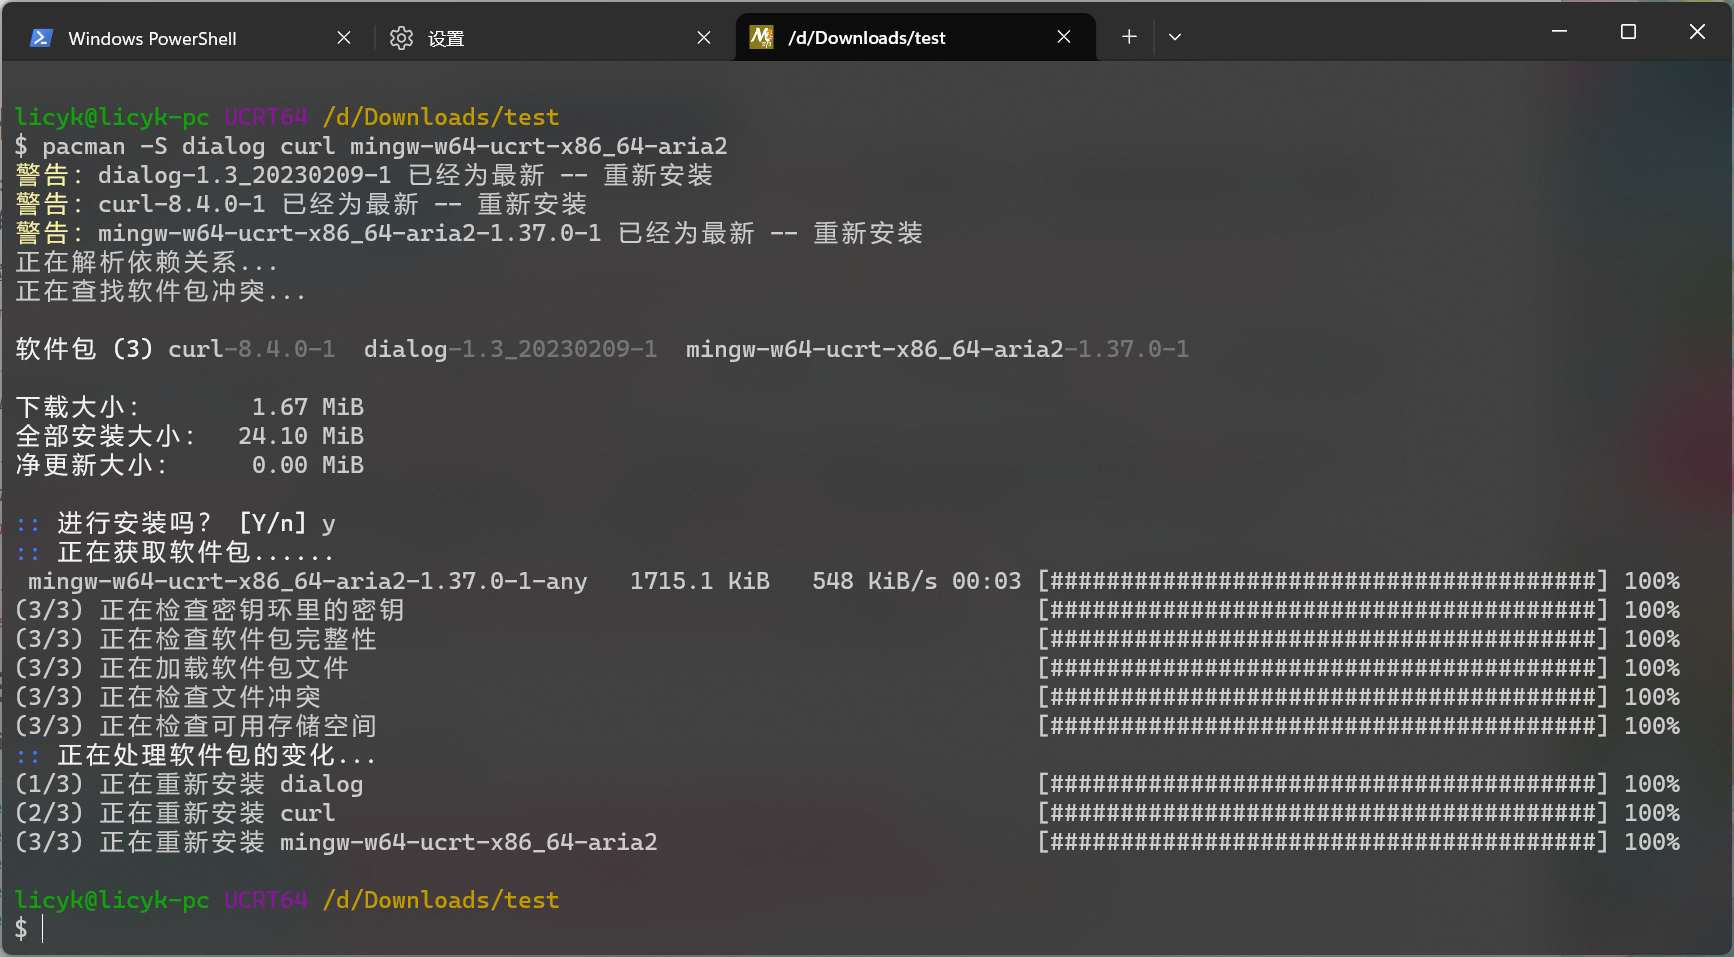
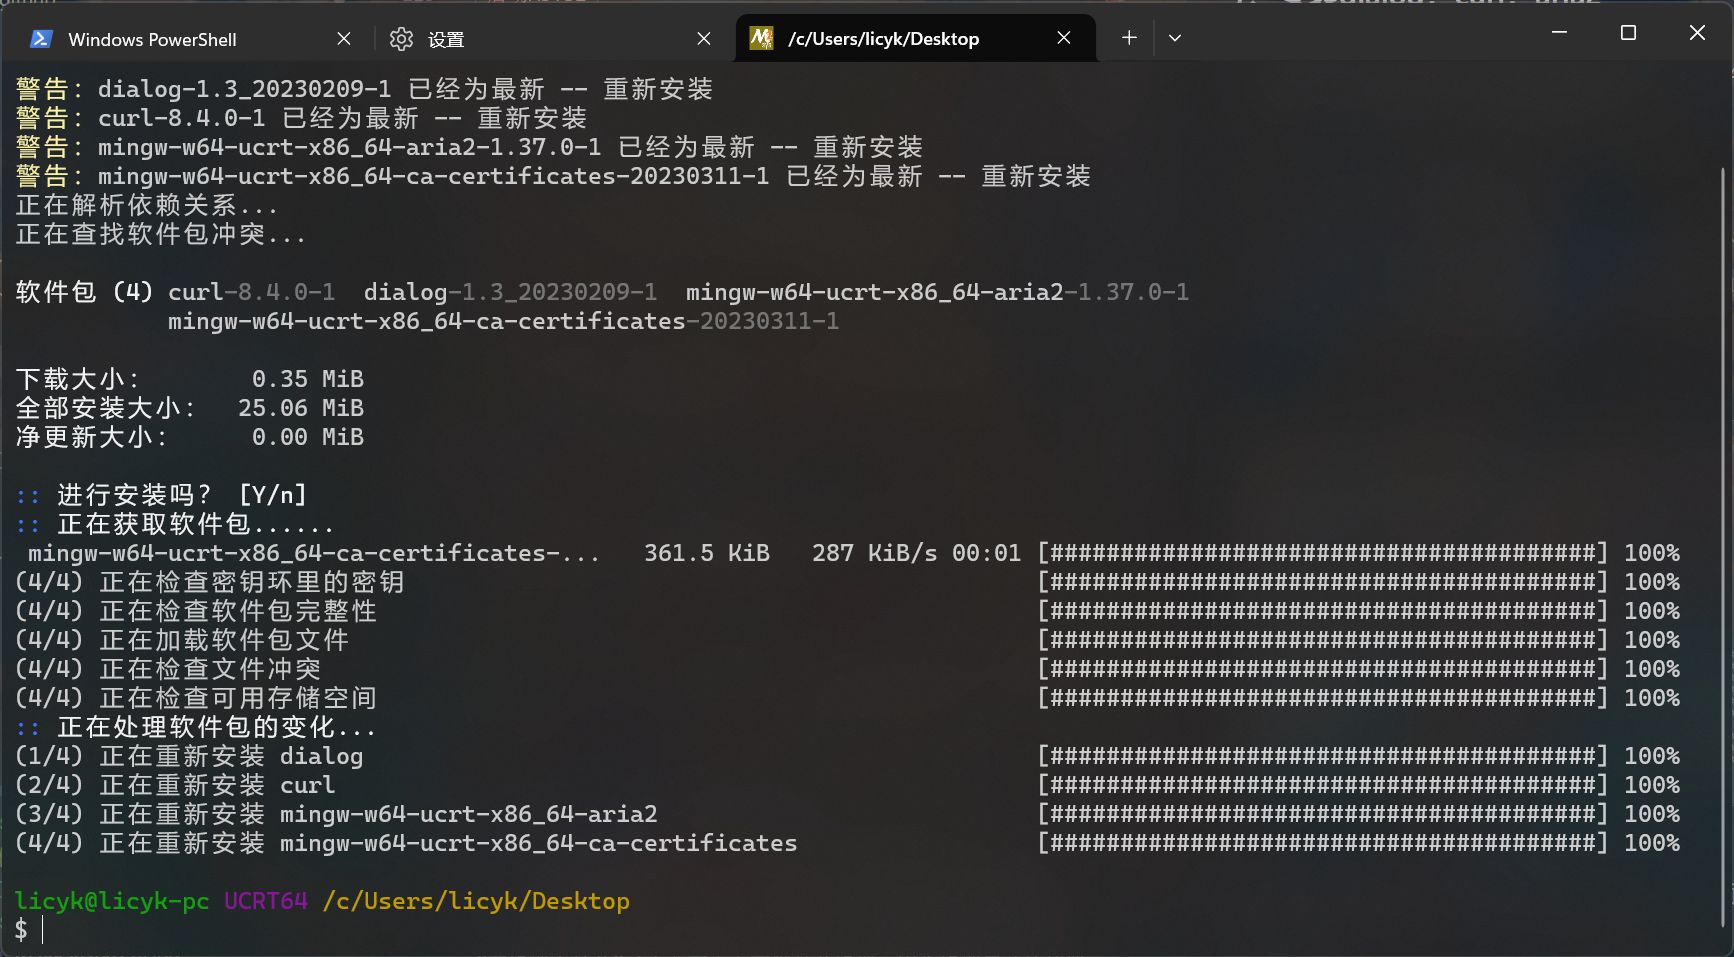
commit

diff --git a/term-sd/README_config_env.md b/term-sd/README_config_env.md
@@ -130,9 +130,10 @@ pacman -Sy
 
 ### 7、安装dialog，curl，aria2
 ```
-pacman -S dialog curl mingw-w64-ucrt-x86_64-aria2
+pacman -S dialog curl mingw-w64-ucrt-x86_64-aria2 mingw-w64-ucrt-x86_64-ca-certificates
 ```
-输入y，回车，等待安装完成  
+输入y，回车，等待安装完成
+>`mingw-w64-ucrt-x86_64-ca-certificates`这个包如果不装会导致aria2下载时出现`ssl/tls handshake failure: unable to get local issuer certificate`
 
 &nbsp;
 <div align="center">
